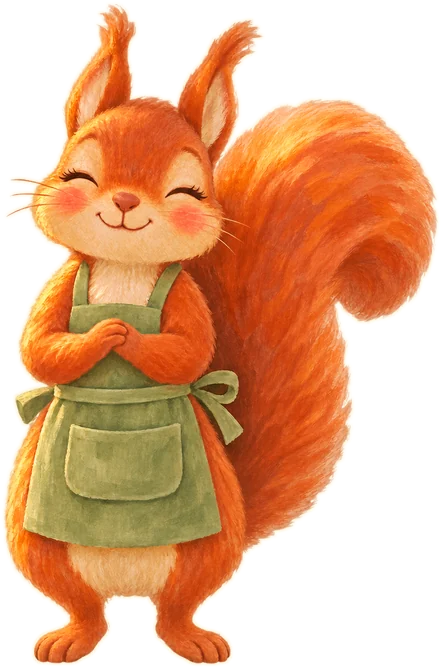
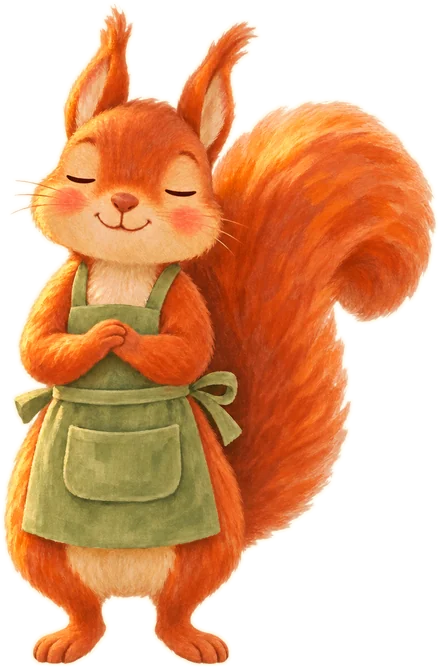
Acorn Shop: goods painted on the shelves, upright phone painting, calmer blink
The floating shelf stickers are gone: the wide painting now has the goods
painted on its shelves. Phones get their own upright painting (stall at the
top, a meadow path below for the hedgehog and the coins) instead of a large
empty ground. PaintedScene takes several views and picks the painting shaped
most like the screen. The blink face has relaxed closed eyes.

Claude-Session: https://claude.ai/code/session_01YQ9FZeaUyNrLNndJTVXyeA

diff --git a/src/games/acorn-shop/Game.tsx b/src/games/acorn-shop/Game.tsx
@@ -1,6 +1,6 @@
 import { useEffect, useRef, useState } from 'react'
 import { useTimeouts } from '../../kit/hooks'
-import { PaintedScene, worldStyle } from '../../kit/painted'
+import { PaintedScene, worldStyle, type PaintedView } from '../../kit/painted'
 import { makeRng } from '../../kit/random'
 import { useStage } from '../../kit/SceneShell'
 import { sound } from '../../kit/sound'
@@ -12,6 +12,7 @@ import hedgehog from './art/hedgehog.webp'
 import honey from './art/honey.webp'
 import jam from './art/jam.webp'
 import mushroom from './art/mushroom.webp'
+import shopTall from './art/shop-tall.webp'
 import shop from './art/shop.webp'
 import squirrelBlink from './art/squirrel-blink.webp'
 import squirrelHappy from './art/squirrel-happy.webp'
@@ -20,11 +21,45 @@ import { makeTask, pay, specFor, STAGE, type Coin, type Snack, type Task } from 
 
 const snacks: Record<Snack, string> = { apple, berries, mushroom, honey, jam }
 
-/** Where the play happens in the painting (1280 × 800): the stall from its awning to the grass in front. */
-const FOCUS = { x: 330, y: 180, w: 620, h: 540 }
-/** The counter's top edge: the squirrel stands behind it, the awning hangs above it. */
-const COUNTER = 452
-const AWNING = 298
+type ViewId = 'wide' | 'tall'
+
+/** The paintings of the shop; the focus is the stall from its awning to the grass in front. */
+const VIEWS: PaintedView<ViewId>[] = [
+  { id: 'wide', painting: shop, world: { w: 1280, h: 800 }, focus: { x: 330, y: 180, w: 620, h: 540 }, ground: '#bcb225', sayAt: { x: 760, y: 250 } },
+  { id: 'tall', painting: shopTall, world: { w: 720, h: 1280 }, focus: { x: 100, y: 250, w: 520, h: 750 }, ground: '#d9b046', sayAt: { x: 420, y: 300 } },
+]
+
+/** Where things stand in each painting. */
+const SPOTS: Record<ViewId, {
+  /** The counter's top edge (the squirrel stands behind it) and the awning's lower edge. */
+  counter: number
+  awning: number
+  keeper: { x: number; bottom: number; h: number }
+  snack: { x: number; bottom: number; h: number }
+  /** Where the price tag's string hangs from the awning. */
+  tag: { x: number; y: number }
+  paid: { x: number; y: number; w: number }
+  guest: { x: number; bottom: number; h: number }
+}> = {
+  wide: {
+    counter: 452,
+    awning: 298,
+    keeper: { x: 648, bottom: 700, h: 410 },
+    snack: { x: 500, bottom: 474, h: 84 },
+    tag: { x: 398, y: 296 },
+    paid: { x: 560, y: 396, w: 340 },
+    guest: { x: 250, bottom: 712, h: 210 },
+  },
+  tall: {
+    counter: 509,
+    awning: 320,
+    keeper: { x: 370, bottom: 760, h: 440 },
+    snack: { x: 205, bottom: 530, h: 92 },
+    tag: { x: 152, y: 318 },
+    paid: { x: 250, y: 453, w: 330 },
+    guest: { x: 150, bottom: 930, h: 240 },
+  },
+}
 
 /** A coin on the counter, and where in the purse it came from (when the purse can run out). */
 interface Paid {
@@ -130,11 +165,8 @@ export default function AcornShop({ level, seed, t, onFinish }: GameProps) {
 
   return (
     <PaintedScene
-      painting={shop}
-      focus={FOCUS}
-      ground="#b9af2e"
+      views={VIEWS}
       say={say}
-      sayAt={{ x: 760, y: 250 }}
       stage={stage}
       className="acorn-shop"
       tray={
@@ -153,43 +185,51 @@ export default function AcornShop({ level, seed, t, onFinish }: GameProps) {
         </div>
       }
     >
-      {/* Jars and fruit on the shelves, either side of the shopkeeper. */}
-      <img className="as-prop" src={jam} alt="" style={worldStyle(440, 346, 44)} />
-      <img className="as-prop" src={honey} alt="" style={worldStyle(486, 346, 42)} />
-      <img className="as-prop" src={apple} alt="" style={worldStyle(836, 346, 38)} />
-      <img className="as-prop" src={mushroom} alt="" style={worldStyle(870, 346, 34)} />
-      <img className="as-prop" src={berries} alt="" style={worldStyle(448, 406, 40)} />
-      <img className="as-prop" src={mushroom} alt="" style={worldStyle(822, 406, 32)} />
-      <img className="as-prop" src={apple} alt="" style={worldStyle(858, 406, 34)} />
+      {(view) => {
+        const at = SPOTS[view]
+        return (
+          <>
+            {/* The squirrel stands behind the counter, under the awning. */}
+            <div className="as-behind" style={{ top: at.awning, height: at.counter - at.awning }}>
+              <div className={`as-keeper as-${stage.mood}`} style={worldStyle(at.keeper.x, at.keeper.bottom - at.awning, at.keeper.h)}>
+                {[squirrel, squirrelBlink, squirrelHappy].map((src, i) => (
+                  <img key={src} src={src} alt="" draggable={false} className={['idle', 'blink', 'happy'][i] === face ? '' : 'as-off'} />
+                ))}
+              </div>
+            </div>
 
-      {/* The squirrel stands behind the counter, under the awning. */}
-      <div className="as-behind" style={{ top: AWNING, height: COUNTER - AWNING }}>
-        <div className={`as-keeper as-${stage.mood}`} style={worldStyle(648, 700 - AWNING, 410)}>
-          {[squirrel, squirrelBlink, squirrelHappy].map((src, i) => (
-            <img key={src} src={src} alt="" draggable={false} className={['idle', 'blink', 'happy'][i] === face ? '' : 'as-off'} />
-          ))}
-        </div>
-      </div>
+            {/* What is for sale, and its price on a tag hanging from the awning. */}
+            <img
+              key={round.id}
+              className={`as-prop as-snack${solved ? ' as-bought' : ''}`}
+              src={snacks[task.snack]}
+              alt=""
+              style={worldStyle(at.snack.x, at.snack.bottom, at.snack.h)}
+            />
+            <div className="as-string" style={{ left: at.tag.x, top: at.tag.y }} />
+            <div className="as-tag" key={`tag-${round.id}`} style={{ left: at.tag.x - 58, top: at.tag.y + 54 }}>
+              <b>{task.price}</b>
+              <img src={acorn} alt="" />
+            </div>
 
-      {/* What is for sale, and its price on a tag hanging from the awning. */}
-      <img key={round.id} className={`as-prop as-snack${solved ? ' as-bought' : ''}`} src={snacks[task.snack]} alt="" style={worldStyle(500, 474, 84)} />
-      <div className="as-string" />
-      <div className="as-tag" key={`tag-${round.id}`}>
-        <b>{task.price}</b>
-        <img src={acorn} alt="" />
-      </div>
+            {/* The coins paid so far, on the counter in front of the squirrel. */}
+            <div
+              className={`as-paid${shake ? ' as-no' : ''}`}
+              style={{ left: at.paid.x, top: at.paid.y, width: at.paid.w }}
+              onAnimationEnd={(e) => e.target === e.currentTarget && setShake(false)}
+            >
+              {paid.map((p) => (
+                <button key={p.key} className={`as-coin as-c${p.coin} as-on`} onPointerDown={() => takeBack(p.key)} disabled={solved} aria-label={t('back', { n: p.coin })}>
+                  <CoinArt value={p.coin} />
+                </button>
+              ))}
+            </div>
 
-      {/* The coins paid so far, on the counter in front of the squirrel. */}
-      <div className={`as-paid${shake ? ' as-no' : ''}`} onAnimationEnd={(e) => e.target === e.currentTarget && setShake(false)}>
-        {paid.map((p) => (
-          <button key={p.key} className={`as-coin as-c${p.coin} as-on`} onPointerDown={() => takeBack(p.key)} disabled={solved} aria-label={t('back', { n: p.coin })}>
-            <CoinArt value={p.coin} />
-          </button>
-        ))}
-      </div>
-
-      {/* A hedgehog waits its turn with a basket. */}
-      <img className="as-prop as-guest" src={hedgehog} alt="" style={worldStyle(250, 712, 210)} />
+            {/* A hedgehog waits its turn with a basket. */}
+            <img className="as-prop as-guest" src={hedgehog} alt="" style={worldStyle(at.guest.x, at.guest.bottom, at.guest.h)} />
+          </>
+        )
+      }}
     </PaintedScene>
   )
 }

diff --git a/src/kit/painted.tsx b/src/kit/painted.tsx
@@ -52,49 +52,61 @@ export function worldStyle(x: number, bottom: number, h?: number): CSSProperties
   return { left: x, top: bottom, height: h, translate: '-50% -100%' }
 }
 
-export function PaintedScene({
-  painting,
-  world = { w: 1280, h: 800 },
-  focus,
-  ground,
+/** One painting of the scene and where things are on it. A scene can have a wide and an upright painting. */
+export interface PaintedView<Id extends string = string> {
+  id: Id
+  painting: string
+  world: { w: number; h: number }
+  /** Where the play happens; it always fits above the tray. */
+  focus: Box
+  /** The colour of the painting's bottom edge, which goes on below it on screens taller than the painting. */
+  ground: string
+  /** The world point the speech bubble's tail points down at. */
+  sayAt: { x: number; y: number }
+}
+
+/** The view whose painting's shape is closest to the screen's. */
+export function pickView<V extends PaintedView>(views: V[], w: number, h: number): V {
+  const ratio = Math.log(w / Math.max(1, h))
+  return views.reduce((best, v) =>
+    Math.abs(Math.log(v.world.w / v.world.h) - ratio) < Math.abs(Math.log(best.world.w / best.world.h) - ratio) ? v : best,
+  )
+}
+
+export function PaintedScene<Id extends string>({
+  views,
   say,
-  sayAt,
   stage,
   tray,
   trayHeight = 120,
   className = '',
   children,
 }: {
-  painting: string
-  world?: { w: number; h: number }
-  focus: Box
-  /** The colour of the painting's bottom edge, which goes on below it on tall screens. */
-  ground: string
+  views: PaintedView<Id>[]
   /** The character's one sentence. */
   say: ReactNode
-  /** The world point the speech bubble's tail points down at. */
-  sayAt: { x: number; y: number }
   stage: Pick<Stage, 'done' | 'total' | 'over'>
   /** Things to tap, laid on the ground at the bottom edge (not scaled with the painting). */
   tray?: ReactNode
   trayHeight?: number
   className?: string
-  /** Absolutely placed things in world units (see `worldStyle`). */
-  children: ReactNode
+  /** Absolutely placed things in the chosen view's world units (see `worldStyle`). */
+  children: (view: Id) => ReactNode
 }) {
   const t = useT()
   const [ref, size] = useSize<HTMLDivElement>({ w: 390, h: 700 })
+  const { id, painting, world, focus, ground, sayAt } = pickView(views, size.w, size.h)
   const fit = fitPainting(size.w, size.h, world, focus, tray ? trayHeight : 0)
   const bubbleX = fit.x + sayAt.x * fit.s
   const bubbleBottom = size.h - (fit.y + sayAt.y * fit.s)
   return (
-    <div ref={ref} className={`scene ps ${className}`} style={{ background: ground }}>
+    <div ref={ref} className={`scene ps ps-${id} ${className}`} style={{ background: ground }}>
       <div
         className="ps-world"
         style={{ width: world.w, height: world.h, transform: `translate(${fit.x}px, ${fit.y}px) scale(${fit.s})` }}
       >
         <img className="ps-painting" src={painting} alt="" draggable={false} />
-        {children}
+        {children(id)}
       </div>
       <StagePips done={stage.done} total={stage.total} label={t('scene.progress', { n: stage.done, total: stage.total })} />
       <SpeechBubble style={{ left: `min(${Math.round(bubbleX)}px, 100% - 12px - var(--ps-bubble-w))`, bottom: bubbleBottom }}>{say}</SpeechBubble>

diff --git a/src/styles.css b/src/styles.css
@@ -1448,8 +1448,8 @@ button.wm-pill:active, .wm-arrow:active, .scene-back:active { transform: transla
 .as-keeper img.as-off { visibility: hidden; }
 .as-keeper.as-happy { animation: fmHop 0.6s; }
 .as-keeper.as-oops { animation: sgNo 0.5s; }
-.as-string { position: absolute; left: 398px; top: 296px; width: 3px; height: 58px; background: #6d4a3a; border-radius: 2px; }
-.as-tag { position: absolute; left: 340px; top: 350px; width: 112px; height: 74px; display: flex; align-items: center; justify-content: center; gap: 4px; padding-right: 10px; border-radius: 12px 26px 26px 12px; background: #fbf1dc; box-shadow: 0 3px 8px rgba(60, 35, 10, 0.3); rotate: 4deg; animation: popIn 0.35s backwards; }
+.as-string { position: absolute; width: 3px; height: 58px; background: #6d4a3a; border-radius: 2px; }
+.as-tag { position: absolute; width: 112px; height: 74px; display: flex; align-items: center; justify-content: center; gap: 4px; padding-right: 10px; border-radius: 12px 26px 26px 12px; background: #fbf1dc; box-shadow: 0 3px 8px rgba(60, 35, 10, 0.3); rotate: 4deg; animation: popIn 0.35s backwards; }
 .as-tag b { font-family: var(--story); font-weight: 800; font-size: 44px; color: var(--story-ink); line-height: 1; }
 .as-tag img { height: 42px; }
 /* Coins: a painted acorn with its value on a cream badge; the bigger the acorn, the more it is worth. */
@@ -1466,7 +1466,7 @@ button.wm-pill:active, .wm-arrow:active, .scene-back:active { transform: transla
 .as-purse { display: flex; flex-wrap: wrap; justify-content: center; align-items: flex-end; gap: 8px 14px; }
 .as-gone { visibility: hidden; }
 /* On the counter (in painting units) the coins stand in a row; many coins overlap a little. */
-.as-paid { position: absolute; left: 560px; top: 396px; width: 340px; height: 78px; display: flex; align-items: flex-end; justify-content: center; }
+.as-paid { position: absolute; height: 78px; display: flex; align-items: flex-end; justify-content: center; }
 .as-paid .as-on { flex: none; margin: 0 -3px; animation: popIn 0.2s; }
 .as-paid .as-c1 { width: 40px; height: 50px; font-size: 40px; }
 .as-paid .as-c2 { width: 46px; height: 58px; font-size: 44px; }

diff --git a/src/kit/painted.test.ts b/src/kit/painted.test.ts
@@ -1,5 +1,5 @@
 import { describe, expect, it } from 'vitest'
-import { fitPainting } from './painted'
+import { fitPainting, pickView } from './painted'
 
 const world = { w: 1280, h: 800 }
 const focus = { x: 330, y: 180, w: 620, h: 540 }
@@ -36,5 +36,16 @@ describe('fitPainting on a tall screen', () => {
   it('hangs the painting from the top', () => {
     const f = fitPainting(390, 844, world, focus, 120)
     expect(f.y).toBe(0)
+  })
+})
+
+describe('pickView', () => {
+  const v = (id: string, w: number, h: number) => ({ id, painting: '', world: { w, h }, focus, ground: '', sayAt: { x: 0, y: 0 } })
+  const views = [v('wide', 1280, 800), v('tall', 720, 1280)]
+  it('takes the painting shaped most like the screen', () => {
+    expect(pickView(views, 1280, 800).id).toBe('wide')
+    expect(pickView(views, 390, 844).id).toBe('tall')
+    expect(pickView(views, 820, 1180).id).toBe('tall')
+    expect(pickView([views[0]], 390, 844).id).toBe('wide')
   })
 })
